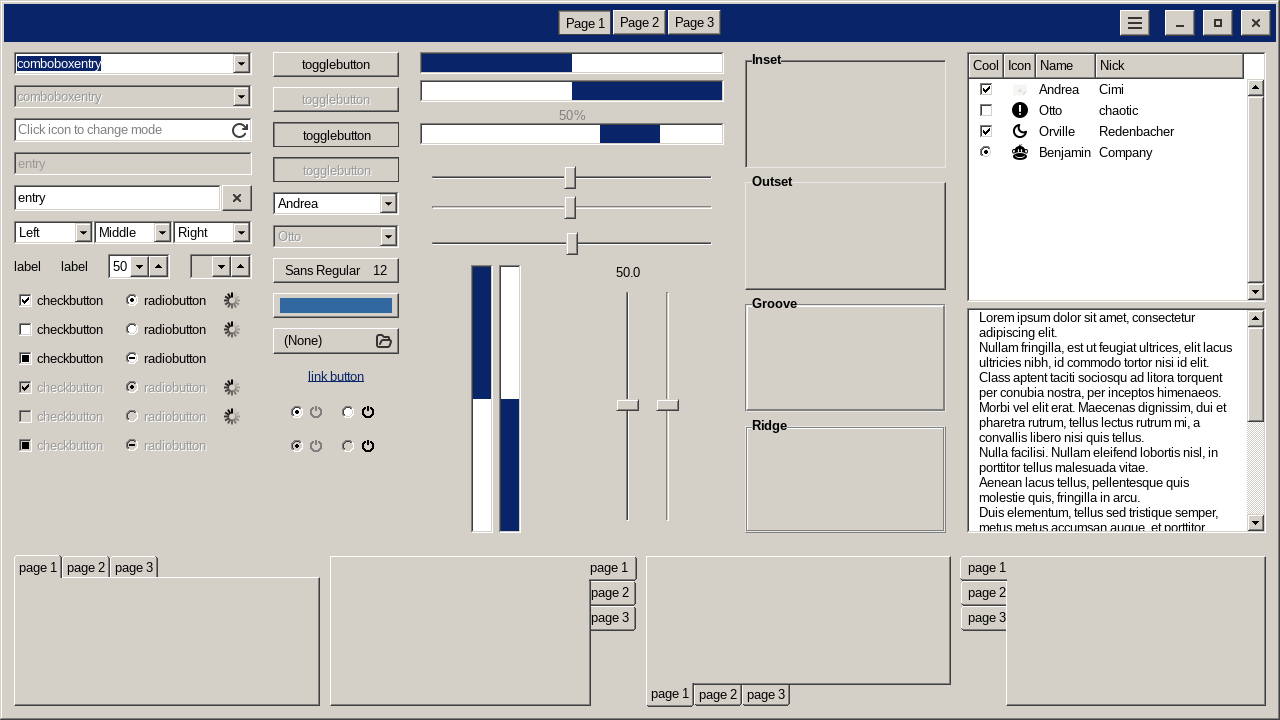
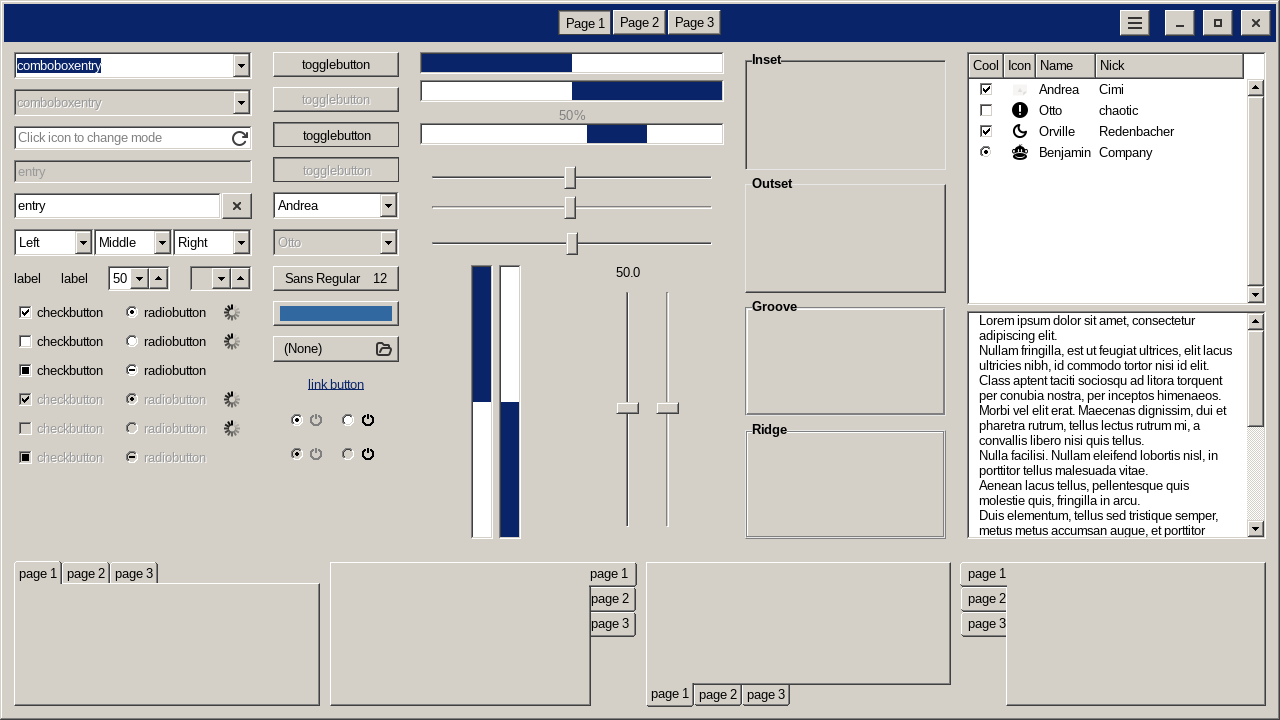
Keep the pixels of the caret of a drop down in GTK3 too
The caret sits in the middle slice of `combobox.png`. The button was not as
tall as the image, thus both toolkits made that slice larger or smaller and the
caret came out soft. A button of 19px, with its two borders of 2px, has the
height of the image.

This rule holds for GTK3 and for GTK4, thus the tile of the border image of
GTK4 goes out.

diff --git a/gtk-3.0/gtk-buttons.css b/gtk-3.0/gtk-buttons.css
@@ -104,6 +104,9 @@ combobox button {
   border-width: 2px 18px 2px 2px;
   border-image: url("assets/combobox.png");
   border-image-slice: 2 18 2 2;
+  /* 19px and the two borders give the height of the image, thus the caret in
+     the middle slice keeps its pixels. */
+  min-height: 19px;
 }
 
 combobox button:checked,

diff --git a/gtk-4.0/gtk-combobox.css b/gtk-4.0/gtk-combobox.css
@@ -4,9 +4,3 @@ combobox button:checked box {
   margin: 0px;
   margin-left: -1px;
 }
-
-/* The caret sits in the middle slice, which GTK4 stretches. A tile keeps the
-   pixels of the image. */
-combobox button {
-  border-image-repeat: stretch repeat;
-}
